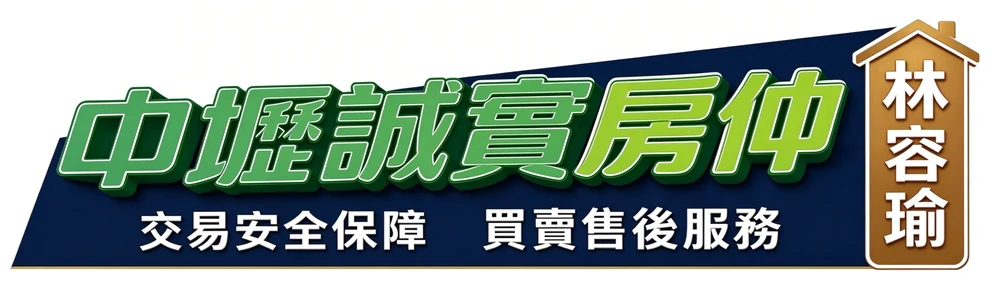
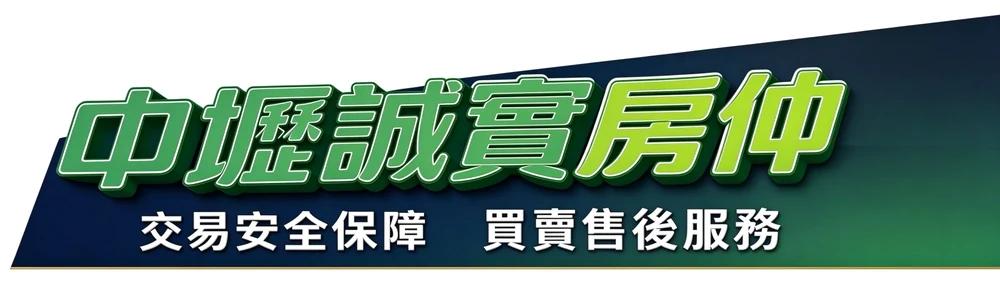
換新招牌圖、頂部改「中壢誠實房仲」、選單拿掉學區查詢
- 招牌圖換成新版（已去掉浮水印）
- 頂部聯絡列改「中壢誠實房仲　林容瑜」，品牌名只留「林容瑜」
- 選單拿掉「學區查詢」（學區地圖在免費工具裡），地圖頁的選單標示改到免費工具
- 首屏說明拿掉店名開頭，字放大到 20px

diff --git a/listings/ug0972191/index.html b/listings/ug0972191/index.html
@@ -17,25 +17,24 @@
 <link rel="preconnect" href="https://fonts.googleapis.com">
 <link rel="preconnect" href="https://fonts.gstatic.com" crossorigin>
 <link rel="stylesheet" href="https://fonts.googleapis.com/css2?family=Noto+Sans+TC:wght@400;500;700;900&family=Noto+Serif+TC:wght@600;900&display=swap">
-<link rel="stylesheet" href="../../assets/site.css?v=76f43465">
+<link rel="stylesheet" href="../../assets/site.css?v=e187924e">
 <script type="application/ld+json">{"@context": "https://schema.org", "@type": "RealEstateListing", "name": "近林森國小 7米大面寬大地坪邊間透天", "url": "https://wufengfs95.github.io/linrongyu/listings/ug0972191/", "image": ["https://wufengfs95.github.io/linrongyu/listings/ug0972191/photo-01.jpg", "https://wufengfs95.github.io/linrongyu/listings/ug0972191/photo-02.jpg", "https://wufengfs95.github.io/linrongyu/listings/ug0972191/photo-03.jpg", "https://wufengfs95.github.io/linrongyu/listings/ug0972191/photo-04.jpg", "https://wufengfs95.github.io/linrongyu/listings/ug0972191/photo-05.jpg", "https://wufengfs95.github.io/linrongyu/listings/ug0972191/photo-06.jpg", "https://wufengfs95.github.io/linrongyu/listings/ug0972191/photo-07.jpg", "https://wufengfs95.github.io/linrongyu/listings/ug0972191/photo-08.jpg", "https://wufengfs95.github.io/linrongyu/listings/ug0972191/photo-09.jpg", "https://wufengfs95.github.io/linrongyu/listings/ug0972191/photo-10.jpg", "https://wufengfs95.github.io/linrongyu/listings/ug0972191/photo-11.jpg", "https://wufengfs95.github.io/linrongyu/listings/ug0972191/photo-12.jpg", "https://wufengfs95.github.io/linrongyu/listings/ug0972191/photo-13.jpg", "https://wufengfs95.github.io/linrongyu/listings/ug0972191/photo-14.jpg"], "datePosted": "2026-09-22", "description": "位在中壢後站體育園區週邊，走路就到林森國小。 邊間、7 米大面寬，通風採光都好；門前路寬約 8 米，車子進出方便。 地坪 27.22 坪，4 房 3 衛，空間大好規劃 權狀 35.35 坪，另有增建約 20 坪（以現場為準） 有天然瓦斯管線…", "offers": {"@type": "Offer", "priceCurrency": "TWD", "price": 17880000, "availability": "https://schema.org/InStock"}, "author": {"@type": "RealEstateAgent", "name": "林容瑜", "url": "https://wufengfs95.github.io/linrongyu/", "telephone": "+886-973-263-569"}}</script>
 <script type="application/ld+json">{"@context": "https://schema.org", "@type": "BreadcrumbList", "itemListElement": [{"@type": "ListItem", "position": 1, "name": "首頁", "item": "https://wufengfs95.github.io/linrongyu/"}, {"@type": "ListItem", "position": 2, "name": "我接的案子", "item": "https://wufengfs95.github.io/linrongyu/listings/"}, {"@type": "ListItem", "position": 3, "name": "近林森國小 7米大面寬大地坪邊間透天", "item": "https://wufengfs95.github.io/linrongyu/listings/ug0972191/"}]}</script>
 </head>
 <body class="has-actionbar">
 <div class="topinfo">
   <div class="wrap">
-    <span><a href="tel:+886973263569"><span class="ti-ic" aria-hidden="true">📲</span>0973-263-569</a><span class="ti-sub">　|　桃園在地房仲 林容瑜</span></span>
+    <span><a href="tel:+886973263569"><span class="ti-ic" aria-hidden="true">📲</span>0973-263-569</a><span class="ti-sub">　|　中壢誠實房仲　林容瑜</span></span>
     <a class="topinfo-line" href="https://line.me/ti/p/~0973263569" target="_blank" rel="noopener">加 LINE 預約</a>
   </div>
 </div>
 <header class="topbar">
   <div class="wrap">
-    <a class="brand" href="../../"><img class="brand-sign" src="../../images/sign.webp" width="1000" height="286" alt="中壢誠實房仲 林容瑜｜交易安全保障・買賣售後服務"><span class="brand-name"><b>林容瑜</b><span>有巢氏房屋</span></span></a>
+    <a class="brand" href="../../"><img class="brand-sign" src="../../images/sign.webp" width="1000" height="286" alt="中壢誠實房仲｜交易安全保障・買賣售後服務"><span class="brand-name"><b>林容瑜</b></span></a>
     <nav class="nav" aria-label="主選單">
       <a href="../../">首頁</a>
       <a href="../../#about">關於我</a>
       <a href="../../listings/" aria-current="page">精選物件</a>
-      <a href="../../school-map/">學區查詢</a>
       <a href="../../tools/">免費工具</a>
       <a href="../../#booking">預約諮詢</a>
     </nav>

diff --git a/listings/ug1139742/index.html b/listings/ug1139742/index.html
@@ -17,25 +17,24 @@
 <link rel="preconnect" href="https://fonts.googleapis.com">
 <link rel="preconnect" href="https://fonts.gstatic.com" crossorigin>
 <link rel="stylesheet" href="https://fonts.googleapis.com/css2?family=Noto+Sans+TC:wght@400;500;700;900&family=Noto+Serif+TC:wght@600;900&display=swap">
-<link rel="stylesheet" href="../../assets/site.css?v=76f43465">
+<link rel="stylesheet" href="../../assets/site.css?v=e187924e">
 <script type="application/ld+json">{"@context": "https://schema.org", "@type": "RealEstateListing", "name": "湖口老街・湖口火車站 大地坪雙車位美墅", "url": "https://wufengfs95.github.io/linrongyu/listings/ug1139742/", "image": ["https://wufengfs95.github.io/linrongyu/listings/ug1139742/photo-01.jpg", "https://wufengfs95.github.io/linrongyu/listings/ug1139742/photo-02.jpg", "https://wufengfs95.github.io/linrongyu/listings/ug1139742/photo-03.jpg", "https://wufengfs95.github.io/linrongyu/listings/ug1139742/photo-04.jpg", "https://wufengfs95.github.io/linrongyu/listings/ug1139742/photo-05.jpg", "https://wufengfs95.github.io/linrongyu/listings/ug1139742/photo-06.jpg", "https://wufengfs95.github.io/linrongyu/listings/ug1139742/photo-07.jpg", "https://wufengfs95.github.io/linrongyu/listings/ug1139742/photo-08.jpg", "https://wufengfs95.github.io/linrongyu/listings/ug1139742/photo-09.jpg", "https://wufengfs95.github.io/linrongyu/listings/ug1139742/photo-10.jpg", "https://wufengfs95.github.io/linrongyu/listings/ug1139742/photo-11.jpg", "https://wufengfs95.github.io/linrongyu/listings/ug1139742/photo-12.jpg", "https://wufengfs95.github.io/linrongyu/listings/ug1139742/photo-13.jpg"], "datePosted": "2026-09-22", "description": "走路就到湖口老街，離湖口火車站也近，生活機能成熟。 別墅設計、空間寬敞，還有室內雙車位，家裡車多也停得下。 B1 到 4 樓，4 房 4 衛，一家人住得開 4 樓整層開放空間加大露台，可以當起居室或種花 學區湖口國小，附近有湖口公有零售市場…", "offers": {"@type": "Offer", "priceCurrency": "TWD", "price": 10880000, "availability": "https://schema.org/InStock"}, "author": {"@type": "RealEstateAgent", "name": "林容瑜", "url": "https://wufengfs95.github.io/linrongyu/", "telephone": "+886-973-263-569"}}</script>
 <script type="application/ld+json">{"@context": "https://schema.org", "@type": "BreadcrumbList", "itemListElement": [{"@type": "ListItem", "position": 1, "name": "首頁", "item": "https://wufengfs95.github.io/linrongyu/"}, {"@type": "ListItem", "position": 2, "name": "我接的案子", "item": "https://wufengfs95.github.io/linrongyu/listings/"}, {"@type": "ListItem", "position": 3, "name": "湖口老街・湖口火車站 大地坪雙車位美墅", "item": "https://wufengfs95.github.io/linrongyu/listings/ug1139742/"}]}</script>
 </head>
 <body class="has-actionbar">
 <div class="topinfo">
   <div class="wrap">
-    <span><a href="tel:+886973263569"><span class="ti-ic" aria-hidden="true">📲</span>0973-263-569</a><span class="ti-sub">　|　桃園在地房仲 林容瑜</span></span>
+    <span><a href="tel:+886973263569"><span class="ti-ic" aria-hidden="true">📲</span>0973-263-569</a><span class="ti-sub">　|　中壢誠實房仲　林容瑜</span></span>
     <a class="topinfo-line" href="https://line.me/ti/p/~0973263569" target="_blank" rel="noopener">加 LINE 預約</a>
   </div>
 </div>
 <header class="topbar">
   <div class="wrap">
-    <a class="brand" href="../../"><img class="brand-sign" src="../../images/sign.webp" width="1000" height="286" alt="中壢誠實房仲 林容瑜｜交易安全保障・買賣售後服務"><span class="brand-name"><b>林容瑜</b><span>有巢氏房屋</span></span></a>
+    <a class="brand" href="../../"><img class="brand-sign" src="../../images/sign.webp" width="1000" height="286" alt="中壢誠實房仲｜交易安全保障・買賣售後服務"><span class="brand-name"><b>林容瑜</b></span></a>
     <nav class="nav" aria-label="主選單">
       <a href="../../">首頁</a>
       <a href="../../#about">關於我</a>
       <a href="../../listings/" aria-current="page">精選物件</a>
-      <a href="../../school-map/">學區查詢</a>
       <a href="../../tools/">免費工具</a>
       <a href="../../#booking">預約諮詢</a>
     </nav>

diff --git a/listings/ua0382887/index.html b/listings/ua0382887/index.html
@@ -17,25 +17,24 @@
 <link rel="preconnect" href="https://fonts.googleapis.com">
 <link rel="preconnect" href="https://fonts.gstatic.com" crossorigin>
 <link rel="stylesheet" href="https://fonts.googleapis.com/css2?family=Noto+Sans+TC:wght@400;500;700;900&family=Noto+Serif+TC:wght@600;900&display=swap">
-<link rel="stylesheet" href="../../assets/site.css?v=76f43465">
+<link rel="stylesheet" href="../../assets/site.css?v=e187924e">
 <script type="application/ld+json">{"@context": "https://schema.org", "@type": "RealEstateListing", "name": "未來捷運站・體育園區・林森國小 電梯3改2房車", "url": "https://wufengfs95.github.io/linrongyu/listings/ua0382887/", "image": ["https://wufengfs95.github.io/linrongyu/listings/ua0382887/photo-01.jpg", "https://wufengfs95.github.io/linrongyu/listings/ua0382887/photo-02.jpg", "https://wufengfs95.github.io/linrongyu/listings/ua0382887/photo-03.jpg", "https://wufengfs95.github.io/linrongyu/listings/ua0382887/photo-04.jpg", "https://wufengfs95.github.io/linrongyu/listings/ua0382887/photo-05.jpg", "https://wufengfs95.github.io/linrongyu/listings/ua0382887/photo-06.jpg", "https://wufengfs95.github.io/linrongyu/listings/ua0382887/photo-07.jpg", "https://wufengfs95.github.io/linrongyu/listings/ua0382887/photo-08.jpg", "https://wufengfs95.github.io/linrongyu/listings/ua0382887/photo-09.jpg", "https://wufengfs95.github.io/linrongyu/listings/ua0382887/photo-10.jpg", "https://wufengfs95.github.io/linrongyu/listings/ua0382887/photo-11.jpg"], "datePosted": "2026-09-22", "description": "位在中壢後站體育園區週邊，走路就到林森國小，未來捷運站也在附近。 6 樓視野好、採光佳，社區門口 8 米路，車子進出方便。 電梯大樓，坡道平面車位在 B1 原本規劃 3 房，預售時建商客變成 2 大房，現況另有 1 間木隔間 一手屋主、沒有…", "offers": {"@type": "Offer", "priceCurrency": "TWD", "price": 9380000, "availability": "https://schema.org/InStock"}, "author": {"@type": "RealEstateAgent", "name": "林容瑜", "url": "https://wufengfs95.github.io/linrongyu/", "telephone": "+886-973-263-569"}}</script>
 <script type="application/ld+json">{"@context": "https://schema.org", "@type": "BreadcrumbList", "itemListElement": [{"@type": "ListItem", "position": 1, "name": "首頁", "item": "https://wufengfs95.github.io/linrongyu/"}, {"@type": "ListItem", "position": 2, "name": "我接的案子", "item": "https://wufengfs95.github.io/linrongyu/listings/"}, {"@type": "ListItem", "position": 3, "name": "未來捷運站・體育園區・林森國小 電梯3改2房車", "item": "https://wufengfs95.github.io/linrongyu/listings/ua0382887/"}]}</script>
 </head>
 <body class="has-actionbar">
 <div class="topinfo">
   <div class="wrap">
-    <span><a href="tel:+886973263569"><span class="ti-ic" aria-hidden="true">📲</span>0973-263-569</a><span class="ti-sub">　|　桃園在地房仲 林容瑜</span></span>
+    <span><a href="tel:+886973263569"><span class="ti-ic" aria-hidden="true">📲</span>0973-263-569</a><span class="ti-sub">　|　中壢誠實房仲　林容瑜</span></span>
     <a class="topinfo-line" href="https://line.me/ti/p/~0973263569" target="_blank" rel="noopener">加 LINE 預約</a>
   </div>
 </div>
 <header class="topbar">
   <div class="wrap">
-    <a class="brand" href="../../"><img class="brand-sign" src="../../images/sign.webp" width="1000" height="286" alt="中壢誠實房仲 林容瑜｜交易安全保障・買賣售後服務"><span class="brand-name"><b>林容瑜</b><span>有巢氏房屋</span></span></a>
+    <a class="brand" href="../../"><img class="brand-sign" src="../../images/sign.webp" width="1000" height="286" alt="中壢誠實房仲｜交易安全保障・買賣售後服務"><span class="brand-name"><b>林容瑜</b></span></a>
     <nav class="nav" aria-label="主選單">
       <a href="../../">首頁</a>
       <a href="../../#about">關於我</a>
       <a href="../../listings/" aria-current="page">精選物件</a>
-      <a href="../../school-map/">學區查詢</a>
       <a href="../../tools/">免費工具</a>
       <a href="../../#booking">預約諮詢</a>
     </nav>

diff --git a/listings/ug1036209/index.html b/listings/ug1036209/index.html
@@ -17,25 +17,24 @@
 <link rel="preconnect" href="https://fonts.googleapis.com">
 <link rel="preconnect" href="https://fonts.gstatic.com" crossorigin>
 <link rel="stylesheet" href="https://fonts.googleapis.com/css2?family=Noto+Sans+TC:wght@400;500;700;900&family=Noto+Serif+TC:wght@600;900&display=swap">
-<link rel="stylesheet" href="../../assets/site.css?v=76f43465">
+<link rel="stylesheet" href="../../assets/site.css?v=e187924e">
 <script type="application/ld+json">{"@context": "https://schema.org", "@type": "RealEstateListing", "name": "近未來平鎮火車站・中悅桂冠 大空間住辦＋平面車位", "url": "https://wufengfs95.github.io/linrongyu/listings/ug1036209/", "image": ["https://wufengfs95.github.io/linrongyu/listings/ug1036209/photo-01.jpg", "https://wufengfs95.github.io/linrongyu/listings/ug1036209/photo-02.jpg", "https://wufengfs95.github.io/linrongyu/listings/ug1036209/photo-03.jpg", "https://wufengfs95.github.io/linrongyu/listings/ug1036209/photo-04.jpg", "https://wufengfs95.github.io/linrongyu/listings/ug1036209/photo-05.jpg", "https://wufengfs95.github.io/linrongyu/listings/ug1036209/photo-06.jpg", "https://wufengfs95.github.io/linrongyu/listings/ug1036209/photo-07.jpg", "https://wufengfs95.github.io/linrongyu/listings/ug1036209/photo-08.jpg", "https://wufengfs95.github.io/linrongyu/listings/ug1036209/photo-09.jpg"], "datePosted": "2026-09-22", "description": "室內空間大、隔間少，當住家或工作室都好用。 汽車位就在電梯口旁，下車就能搭電梯。 附近是未來平鎮火車站，重大建設陸續啟動。 電梯大樓、警衛管理，住得安心 門前道路寬約 20 米、雙向車道，車流順暢 目前出租中，適合置產收租 管理費每月 2,…", "offers": {"@type": "Offer", "priceCurrency": "TWD", "price": 12480000, "availability": "https://schema.org/InStock"}, "author": {"@type": "RealEstateAgent", "name": "林容瑜", "url": "https://wufengfs95.github.io/linrongyu/", "telephone": "+886-973-263-569"}}</script>
 <script type="application/ld+json">{"@context": "https://schema.org", "@type": "BreadcrumbList", "itemListElement": [{"@type": "ListItem", "position": 1, "name": "首頁", "item": "https://wufengfs95.github.io/linrongyu/"}, {"@type": "ListItem", "position": 2, "name": "我接的案子", "item": "https://wufengfs95.github.io/linrongyu/listings/"}, {"@type": "ListItem", "position": 3, "name": "近未來平鎮火車站・中悅桂冠 大空間住辦＋平面車位", "item": "https://wufengfs95.github.io/linrongyu/listings/ug1036209/"}]}</script>
 </head>
 <body class="has-actionbar">
 <div class="topinfo">
   <div class="wrap">
-    <span><a href="tel:+886973263569"><span class="ti-ic" aria-hidden="true">📲</span>0973-263-569</a><span class="ti-sub">　|　桃園在地房仲 林容瑜</span></span>
+    <span><a href="tel:+886973263569"><span class="ti-ic" aria-hidden="true">📲</span>0973-263-569</a><span class="ti-sub">　|　中壢誠實房仲　林容瑜</span></span>
     <a class="topinfo-line" href="https://line.me/ti/p/~0973263569" target="_blank" rel="noopener">加 LINE 預約</a>
   </div>
 </div>
 <header class="topbar">
   <div class="wrap">
-    <a class="brand" href="../../"><img class="brand-sign" src="../../images/sign.webp" width="1000" height="286" alt="中壢誠實房仲 林容瑜｜交易安全保障・買賣售後服務"><span class="brand-name"><b>林容瑜</b><span>有巢氏房屋</span></span></a>
+    <a class="brand" href="../../"><img class="brand-sign" src="../../images/sign.webp" width="1000" height="286" alt="中壢誠實房仲｜交易安全保障・買賣售後服務"><span class="brand-name"><b>林容瑜</b></span></a>
     <nav class="nav" aria-label="主選單">
       <a href="../../">首頁</a>
       <a href="../../#about">關於我</a>
       <a href="../../listings/" aria-current="page">精選物件</a>
-      <a href="../../school-map/">學區查詢</a>
       <a href="../../tools/">免費工具</a>
       <a href="../../#booking">預約諮詢</a>
     </nav>

diff --git a/listings/hg0183320/index.html b/listings/hg0183320/index.html
@@ -17,25 +17,24 @@
 <link rel="preconnect" href="https://fonts.googleapis.com">
 <link rel="preconnect" href="https://fonts.gstatic.com" crossorigin>
 <link rel="stylesheet" href="https://fonts.googleapis.com/css2?family=Noto+Sans+TC:wght@400;500;700;900&family=Noto+Serif+TC:wght@600;900&display=swap">
-<link rel="stylesheet" href="../../assets/site.css?v=76f43465">
+<link rel="stylesheet" href="../../assets/site.css?v=e187924e">
 <script type="application/ld+json">{"@context": "https://schema.org", "@type": "RealEstateListing", "name": "近青埔・中壢市區・中央大學 千坪大地坪農地", "url": "https://wufengfs95.github.io/linrongyu/listings/hg0183320/", "image": ["https://wufengfs95.github.io/linrongyu/listings/hg0183320/photo-01.jpg", "https://wufengfs95.github.io/linrongyu/listings/hg0183320/photo-02.jpg", "https://wufengfs95.github.io/linrongyu/listings/hg0183320/photo-03.jpg", "https://wufengfs95.github.io/linrongyu/listings/hg0183320/photo-04.jpg", "https://wufengfs95.github.io/linrongyu/listings/hg0183320/photo-05.jpg"], "datePosted": "2026-09-22", "description": "1,733 坪大面積農地，面寬約 64～111 米、深度約 52～75 米，地勢平坦、水源豐富。 位在中壢區內厝里，往中壢市區、中央大學、青埔都方便。 特定農業區（農牧用地），適合自用或投資 旁邊有排水溝，排水好、不容易積水", "offers": {"@type": "Offer", "priceCurrency": "TWD", "price": 39980000, "availability": "https://schema.org/InStock"}, "author": {"@type": "RealEstateAgent", "name": "林容瑜", "url": "https://wufengfs95.github.io/linrongyu/", "telephone": "+886-973-263-569"}}</script>
 <script type="application/ld+json">{"@context": "https://schema.org", "@type": "BreadcrumbList", "itemListElement": [{"@type": "ListItem", "position": 1, "name": "首頁", "item": "https://wufengfs95.github.io/linrongyu/"}, {"@type": "ListItem", "position": 2, "name": "我接的案子", "item": "https://wufengfs95.github.io/linrongyu/listings/"}, {"@type": "ListItem", "position": 3, "name": "近青埔・中壢市區・中央大學 千坪大地坪農地", "item": "https://wufengfs95.github.io/linrongyu/listings/hg0183320/"}]}</script>
 </head>
 <body class="has-actionbar">
 <div class="topinfo">
   <div class="wrap">
-    <span><a href="tel:+886973263569"><span class="ti-ic" aria-hidden="true">📲</span>0973-263-569</a><span class="ti-sub">　|　桃園在地房仲 林容瑜</span></span>
+    <span><a href="tel:+886973263569"><span class="ti-ic" aria-hidden="true">📲</span>0973-263-569</a><span class="ti-sub">　|　中壢誠實房仲　林容瑜</span></span>
     <a class="topinfo-line" href="https://line.me/ti/p/~0973263569" target="_blank" rel="noopener">加 LINE 預約</a>
   </div>
 </div>
 <header class="topbar">
   <div class="wrap">
-    <a class="brand" href="../../"><img class="brand-sign" src="../../images/sign.webp" width="1000" height="286" alt="中壢誠實房仲 林容瑜｜交易安全保障・買賣售後服務"><span class="brand-name"><b>林容瑜</b><span>有巢氏房屋</span></span></a>
+    <a class="brand" href="../../"><img class="brand-sign" src="../../images/sign.webp" width="1000" height="286" alt="中壢誠實房仲｜交易安全保障・買賣售後服務"><span class="brand-name"><b>林容瑜</b></span></a>
     <nav class="nav" aria-label="主選單">
       <a href="../../">首頁</a>
       <a href="../../#about">關於我</a>
       <a href="../../listings/" aria-current="page">精選物件</a>
-      <a href="../../school-map/">學區查詢</a>
       <a href="../../tools/">免費工具</a>
       <a href="../../#booking">預約諮詢</a>
     </nav>

diff --git a/listings/ha0106526/index.html b/listings/ha0106526/index.html
@@ -17,25 +17,24 @@
 <link rel="preconnect" href="https://fonts.googleapis.com">
 <link rel="preconnect" href="https://fonts.gstatic.com" crossorigin>
 <link rel="stylesheet" href="https://fonts.googleapis.com/css2?family=Noto+Sans+TC:wght@400;500;700;900&family=Noto+Serif+TC:wght@600;900&display=swap">
-<link rel="stylesheet" href="../../assets/site.css?v=76f43465">
+<link rel="stylesheet" href="../../assets/site.css?v=e187924e">
 <script type="application/ld+json">{"@context": "https://schema.org", "@type": "RealEstateListing", "name": "近向陽農場 地勢平坦方正美農地", "url": "https://wufengfs95.github.io/linrongyu/listings/ha0106526/", "image": ["https://wufengfs95.github.io/linrongyu/listings/ha0106526/photo-01.jpg", "https://wufengfs95.github.io/linrongyu/listings/ha0106526/photo-02.jpg", "https://wufengfs95.github.io/linrongyu/listings/ha0106526/photo-03.jpg"], "datePosted": "2026-09-22", "description": "605 坪方正農地，面寬約 19.6 米、深度約 96 米，地勢平坦，好規劃、利用率高。 旁邊有排水溝，排水好、不容易積水。 特定農業區，適合自用耕作或置產 離觀音區向陽農場很近", "offers": {"@type": "Offer", "priceCurrency": "TWD", "price": 9680000, "availability": "https://schema.org/InStock"}, "author": {"@type": "RealEstateAgent", "name": "林容瑜", "url": "https://wufengfs95.github.io/linrongyu/", "telephone": "+886-973-263-569"}}</script>
 <script type="application/ld+json">{"@context": "https://schema.org", "@type": "BreadcrumbList", "itemListElement": [{"@type": "ListItem", "position": 1, "name": "首頁", "item": "https://wufengfs95.github.io/linrongyu/"}, {"@type": "ListItem", "position": 2, "name": "我接的案子", "item": "https://wufengfs95.github.io/linrongyu/listings/"}, {"@type": "ListItem", "position": 3, "name": "近向陽農場 地勢平坦方正美農地", "item": "https://wufengfs95.github.io/linrongyu/listings/ha0106526/"}]}</script>
 </head>
 <body class="has-actionbar">
 <div class="topinfo">
   <div class="wrap">
-    <span><a href="tel:+886973263569"><span class="ti-ic" aria-hidden="true">📲</span>0973-263-569</a><span class="ti-sub">　|　桃園在地房仲 林容瑜</span></span>
+    <span><a href="tel:+886973263569"><span class="ti-ic" aria-hidden="true">📲</span>0973-263-569</a><span class="ti-sub">　|　中壢誠實房仲　林容瑜</span></span>
     <a class="topinfo-line" href="https://line.me/ti/p/~0973263569" target="_blank" rel="noopener">加 LINE 預約</a>
   </div>
 </div>
 <header class="topbar">
   <div class="wrap">
-    <a class="brand" href="../../"><img class="brand-sign" src="../../images/sign.webp" width="1000" height="286" alt="中壢誠實房仲 林容瑜｜交易安全保障・買賣售後服務"><span class="brand-name"><b>林容瑜</b><span>有巢氏房屋</span></span></a>
+    <a class="brand" href="../../"><img class="brand-sign" src="../../images/sign.webp" width="1000" height="286" alt="中壢誠實房仲｜交易安全保障・買賣售後服務"><span class="brand-name"><b>林容瑜</b></span></a>
     <nav class="nav" aria-label="主選單">
       <a href="../../">首頁</a>
       <a href="../../#about">關於我</a>
       <a href="../../listings/" aria-current="page">精選物件</a>
-      <a href="../../school-map/">學區查詢</a>
       <a href="../../tools/">免費工具</a>
       <a href="../../#booking">預約諮詢</a>
     </nav>

diff --git a/school-map/index.html b/school-map/index.html
@@ -17,26 +17,25 @@
 <link rel="preconnect" href="https://fonts.googleapis.com">
 <link rel="preconnect" href="https://fonts.gstatic.com" crossorigin>
 <link rel="stylesheet" href="https://fonts.googleapis.com/css2?family=Noto+Sans+TC:wght@400;500;700;900&family=Noto+Serif+TC:wght@600;900&display=swap">
-<link rel="stylesheet" href="../assets/site.css?v=76f43465">
+<link rel="stylesheet" href="../assets/site.css?v=e187924e">
 <link rel="stylesheet" href="https://cdnjs.cloudflare.com/ajax/libs/leaflet/1.9.4/leaflet.min.css">
 <script type="application/ld+json">{"@context": "https://schema.org", "@type": "WebApplication", "name": "桃園市國中小學區地圖", "url": "https://wufengfs95.github.io/linrongyu/school-map/", "applicationCategory": "ReferenceApplication", "operatingSystem": "Web", "isAccessibleForFree": true, "inLanguage": "zh-Hant", "description": "輸入地址或點地圖，查桃園市各里的國小、國中學區（115 學年度）。", "author": {"@type": "RealEstateAgent", "name": "林容瑜", "url": "https://wufengfs95.github.io/linrongyu/"}}</script>
 </head>
 <body class="sm-page">
 <div class="topinfo">
   <div class="wrap">
-    <span><a href="tel:+886973263569"><span class="ti-ic" aria-hidden="true">📲</span>0973-263-569</a><span class="ti-sub">　|　桃園在地房仲 林容瑜</span></span>
+    <span><a href="tel:+886973263569"><span class="ti-ic" aria-hidden="true">📲</span>0973-263-569</a><span class="ti-sub">　|　中壢誠實房仲　林容瑜</span></span>
     <a class="topinfo-line" href="https://line.me/ti/p/~0973263569" target="_blank" rel="noopener">加 LINE 預約</a>
   </div>
 </div>
 <header class="topbar">
   <div class="wrap">
-    <a class="brand" href="../"><img class="brand-sign" src="../images/sign.webp" width="1000" height="286" alt="中壢誠實房仲 林容瑜｜交易安全保障・買賣售後服務"><span class="brand-name"><b>林容瑜</b><span>有巢氏房屋</span></span></a>
+    <a class="brand" href="../"><img class="brand-sign" src="../images/sign.webp" width="1000" height="286" alt="中壢誠實房仲｜交易安全保障・買賣售後服務"><span class="brand-name"><b>林容瑜</b></span></a>
     <nav class="nav" aria-label="主選單">
       <a href="../">首頁</a>
       <a href="../#about">關於我</a>
       <a href="../listings/">精選物件</a>
-      <a href="../school-map/" aria-current="page">學區查詢</a>
-      <a href="../tools/">免費工具</a>
+      <a href="../tools/" aria-current="page">免費工具</a>
       <a href="../#booking">預約諮詢</a>
     </nav>
     <a class="btn btn-main btn-sm nav-cta" href="https://line.me/ti/p/~0973263569" target="_blank" rel="noopener" data-line-msg="容瑜你好，我想免費估價：&#10;・房子在：&#10;・大約坪數、屋齡：&#10;・方便聯絡的時間：" data-toast="heroToast">免費行情評估</a>

diff --git a/listings/index.html b/listings/index.html
@@ -17,24 +17,23 @@
 <link rel="preconnect" href="https://fonts.googleapis.com">
 <link rel="preconnect" href="https://fonts.gstatic.com" crossorigin>
 <link rel="stylesheet" href="https://fonts.googleapis.com/css2?family=Noto+Sans+TC:wght@400;500;700;900&family=Noto+Serif+TC:wght@600;900&display=swap">
-<link rel="stylesheet" href="../assets/site.css?v=76f43465">
+<link rel="stylesheet" href="../assets/site.css?v=e187924e">
 <script type="application/ld+json">{"@context": "https://schema.org", "@type": "ItemList", "name": "林容瑜的物件", "itemListElement": [{"@type": "ListItem", "position": 1, "url": "https://wufengfs95.github.io/linrongyu/listings/ua0382887/"}, {"@type": "ListItem", "position": 2, "url": "https://wufengfs95.github.io/linrongyu/listings/ug0972191/"}, {"@type": "ListItem", "position": 3, "url": "https://wufengfs95.github.io/linrongyu/listings/ug1036209/"}, {"@type": "ListItem", "position": 4, "url": "https://wufengfs95.github.io/linrongyu/listings/ug1139742/"}, {"@type": "ListItem", "position": 5, "url": "https://wufengfs95.github.io/linrongyu/listings/ha0106526/"}, {"@type": "ListItem", "position": 6, "url": "https://wufengfs95.github.io/linrongyu/listings/hg0183320/"}]}</script>
 </head>
 <body>
 <div class="topinfo">
   <div class="wrap">
-    <span><a href="tel:+886973263569"><span class="ti-ic" aria-hidden="true">📲</span>0973-263-569</a><span class="ti-sub">　|　桃園在地房仲 林容瑜</span></span>
+    <span><a href="tel:+886973263569"><span class="ti-ic" aria-hidden="true">📲</span>0973-263-569</a><span class="ti-sub">　|　中壢誠實房仲　林容瑜</span></span>
     <a class="topinfo-line" href="https://line.me/ti/p/~0973263569" target="_blank" rel="noopener">加 LINE 預約</a>
   </div>
 </div>
 <header class="topbar">
   <div class="wrap">
-    <a class="brand" href="../"><img class="brand-sign" src="../images/sign.webp" width="1000" height="286" alt="中壢誠實房仲 林容瑜｜交易安全保障・買賣售後服務"><span class="brand-name"><b>林容瑜</b><span>有巢氏房屋</span></span></a>
+    <a class="brand" href="../"><img class="brand-sign" src="../images/sign.webp" width="1000" height="286" alt="中壢誠實房仲｜交易安全保障・買賣售後服務"><span class="brand-name"><b>林容瑜</b></span></a>
     <nav class="nav" aria-label="主選單">
       <a href="../">首頁</a>
       <a href="../#about">關於我</a>
       <a href="../listings/" aria-current="page">精選物件</a>
-      <a href="../school-map/">學區查詢</a>
       <a href="../tools/">免費工具</a>
       <a href="../#booking">預約諮詢</a>
     </nav>

diff --git a/index.html b/index.html
@@ -39,25 +39,24 @@
   "knowsAbout": ["中古屋買賣", "資產配置", "房屋稅務諮詢", "簡易裝潢"]
 }
 </script>
-<link rel="stylesheet" href="assets/site.css?v=76f43465">
+<link rel="stylesheet" href="assets/site.css?v=e187924e">
 </head>
 <body class="has-actionbar">
 
 <div class="topinfo">
   <div class="wrap">
-    <span><a href="tel:+886973263569"><span class="ti-ic" aria-hidden="true">📲</span>0973-263-569</a><span class="ti-sub">　|　桃園在地房仲 林容瑜</span></span>
+    <span><a href="tel:+886973263569"><span class="ti-ic" aria-hidden="true">📲</span>0973-263-569</a><span class="ti-sub">　|　中壢誠實房仲　林容瑜</span></span>
     <a class="topinfo-line" href="https://line.me/ti/p/~0973263569" target="_blank" rel="noopener">加 LINE 預約</a>
   </div>
 </div>
 
 <header class="topbar">
   <div class="wrap">
-    <a class="brand" href="#top"><img class="brand-sign" src="images/sign.webp" width="1000" height="286" alt="中壢誠實房仲 林容瑜｜交易安全保障・買賣售後服務"><span class="brand-name"><b>林容瑜</b><span>有巢氏房屋</span></span></a>
+    <a class="brand" href="#top"><img class="brand-sign" src="images/sign.webp" width="1000" height="286" alt="中壢誠實房仲｜交易安全保障・買賣售後服務"><span class="brand-name"><b>林容瑜</b></span></a>
     <nav class="nav" aria-label="主選單">
       <a href="#top">首頁</a>
       <a href="#about">關於我</a>
       <a href="listings/">精選物件</a>
-      <a href="school-map/">學區查詢</a>
       <a href="tools/">免費工具</a>
       <a href="#booking">預約諮詢</a>
     </nav>
@@ -73,7 +72,7 @@
       <div class="v2-hero-text">
         <span class="v2-eyebrow">桃園市 · 中壢・平鎮在地房仲</span>
         <h1>買房賣房不踩雷<br>找<em>誠實</em>在地房仲容瑜</h1>
-        <p class="v2-lead">有巢氏房屋中壢環中加盟店，從事不動產買賣，從自備款、房貸到稅費，筆筆幫您算清楚，想知道家裡能賣多少，也可以免費評估。</p>
+        <p class="v2-lead">從事不動產買賣，從自備款、房貸到稅費，筆筆幫您算清楚，想知道家裡能賣多少，也可以免費評估。</p>
         <ul class="v2-checks">
           <li>自備款／房貸試算</li><li>免費行情評估</li><li>稅費精算</li><li>簡易裝潢媒合</li>
         </ul>

diff --git a/tools/index.html b/tools/index.html
@@ -17,23 +17,22 @@
 <link rel="preconnect" href="https://fonts.googleapis.com">
 <link rel="preconnect" href="https://fonts.gstatic.com" crossorigin>
 <link rel="stylesheet" href="https://fonts.googleapis.com/css2?family=Noto+Sans+TC:wght@400;500;700;900&family=Noto+Serif+TC:wght@600;900&display=swap">
-<link rel="stylesheet" href="../assets/site.css?v=76f43465">
+<link rel="stylesheet" href="../assets/site.css?v=e187924e">
 </head>
 <body>
 <div class="topinfo">
   <div class="wrap">
-    <span><a href="tel:+886973263569"><span class="ti-ic" aria-hidden="true">📲</span>0973-263-569</a><span class="ti-sub">　|　桃園在地房仲 林容瑜</span></span>
+    <span><a href="tel:+886973263569"><span class="ti-ic" aria-hidden="true">📲</span>0973-263-569</a><span class="ti-sub">　|　中壢誠實房仲　林容瑜</span></span>
     <a class="topinfo-line" href="https://line.me/ti/p/~0973263569" target="_blank" rel="noopener">加 LINE 預約</a>
   </div>
 </div>
 <header class="topbar">
   <div class="wrap">
-    <a class="brand" href="../"><img class="brand-sign" src="../images/sign.webp" width="1000" height="286" alt="中壢誠實房仲 林容瑜｜交易安全保障・買賣售後服務"><span class="brand-name"><b>林容瑜</b><span>有巢氏房屋</span></span></a>
+    <a class="brand" href="../"><img class="brand-sign" src="../images/sign.webp" width="1000" height="286" alt="中壢誠實房仲｜交易安全保障・買賣售後服務"><span class="brand-name"><b>林容瑜</b></span></a>
     <nav class="nav" aria-label="主選單">
       <a href="../">首頁</a>
       <a href="../#about">關於我</a>
       <a href="../listings/">精選物件</a>
-      <a href="../school-map/">學區查詢</a>
       <a href="../tools/" aria-current="page">免費工具</a>
       <a href="../#booking">預約諮詢</a>
     </nav>

diff --git a/assets/site.css b/assets/site.css
@@ -474,7 +474,7 @@ section.sm{padding-block:8px 48px}
 .v2-eyebrow{display:inline-block;font-size:clamp(20px,2.4vw,30px);font-weight:900;letter-spacing:.06em;color:var(--brick-deep);background:#fff;border:2.5px solid var(--brick);border-radius:999px;padding:8px 24px;box-shadow:0 4px 14px rgba(150,70,42,.12)}
 .v2-hero h1{font-family:var(--serif);font-weight:900;font-size:clamp(30px,4.3vw,50px);line-height:1.25;letter-spacing:.04em;margin:18px 0 16px;color:var(--navy)}
 .v2-hero h1 em{font-style:normal;color:var(--brick)}
-.v2-lead{font-size:17px;color:var(--ink);max-width:32em;margin:0 0 20px}
+.v2-lead{font-size:20px;line-height:1.85;color:var(--ink);max-width:30em;margin:0 0 22px}
 .v2-checks{list-style:none;margin:0 0 26px;padding:0;display:flex;flex-wrap:wrap;gap:8px}
 .v2-checks li{background:#fff;border:1px solid var(--line);border-radius:999px;padding:5px 14px;font-size:14px;font-weight:700;color:var(--navy);box-shadow:0 2px 8px rgba(31,58,95,.06)}
 .v2-checks li::before{content:"✔ ";color:var(--brick)}
